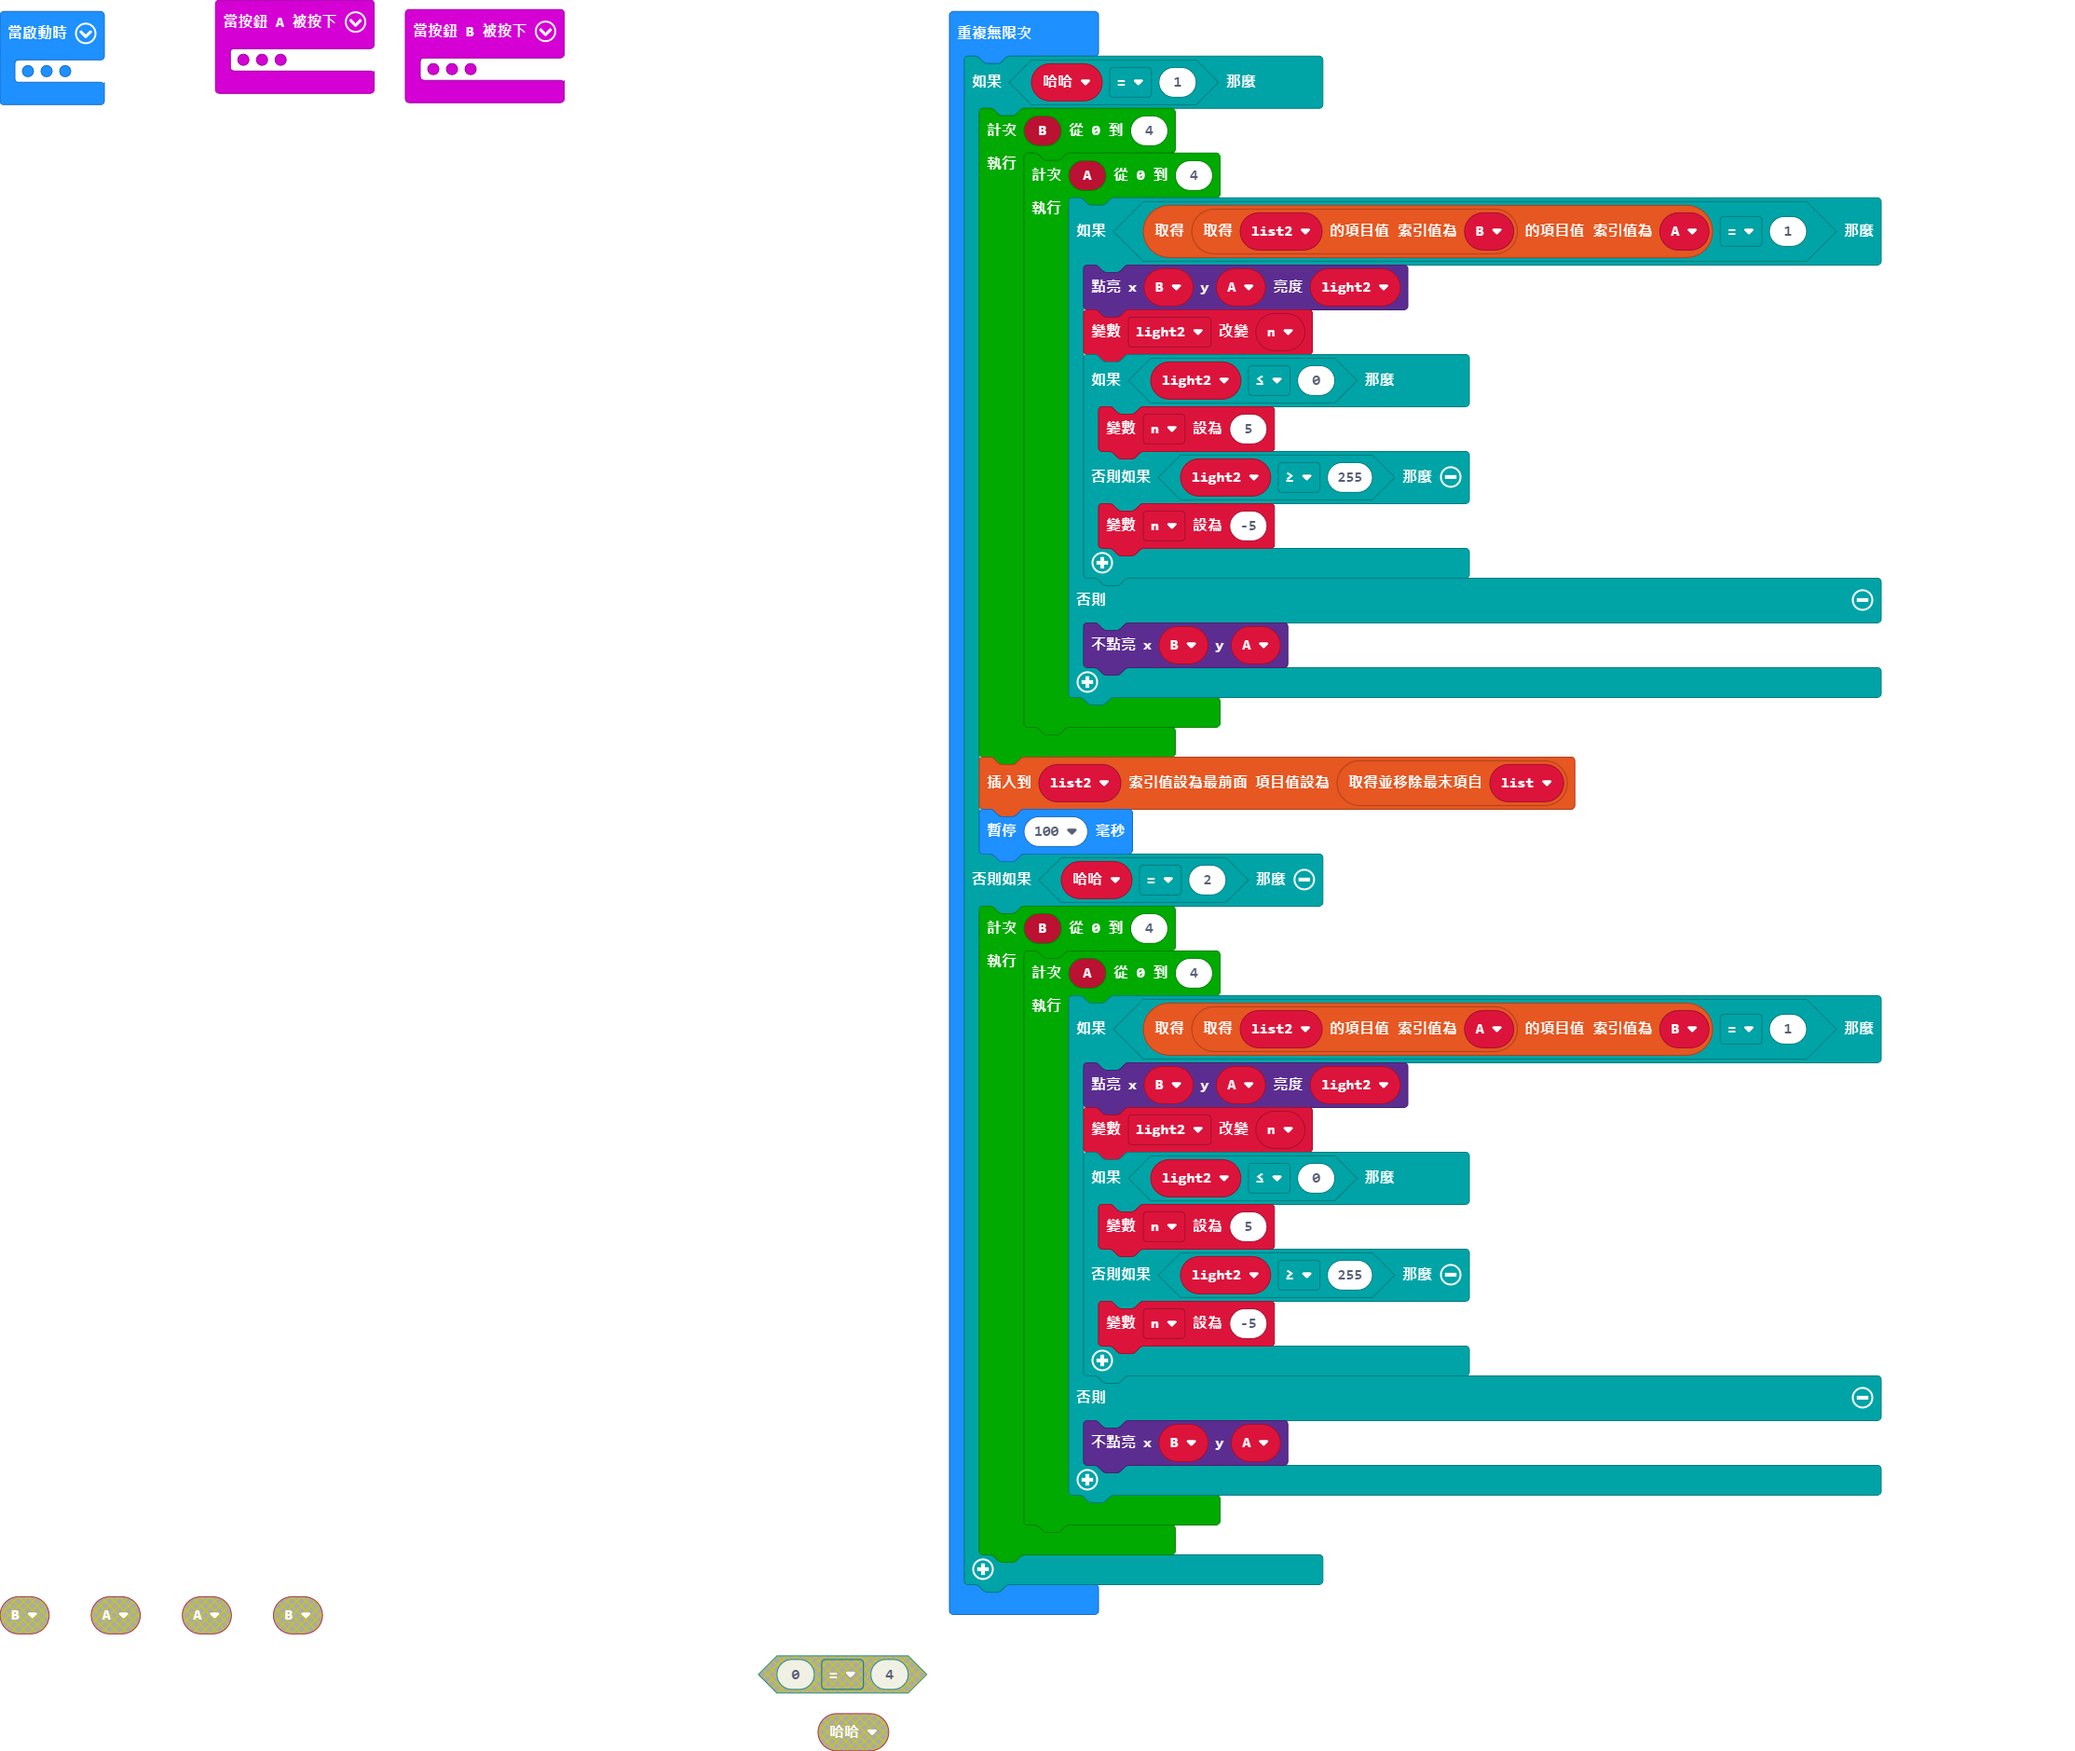
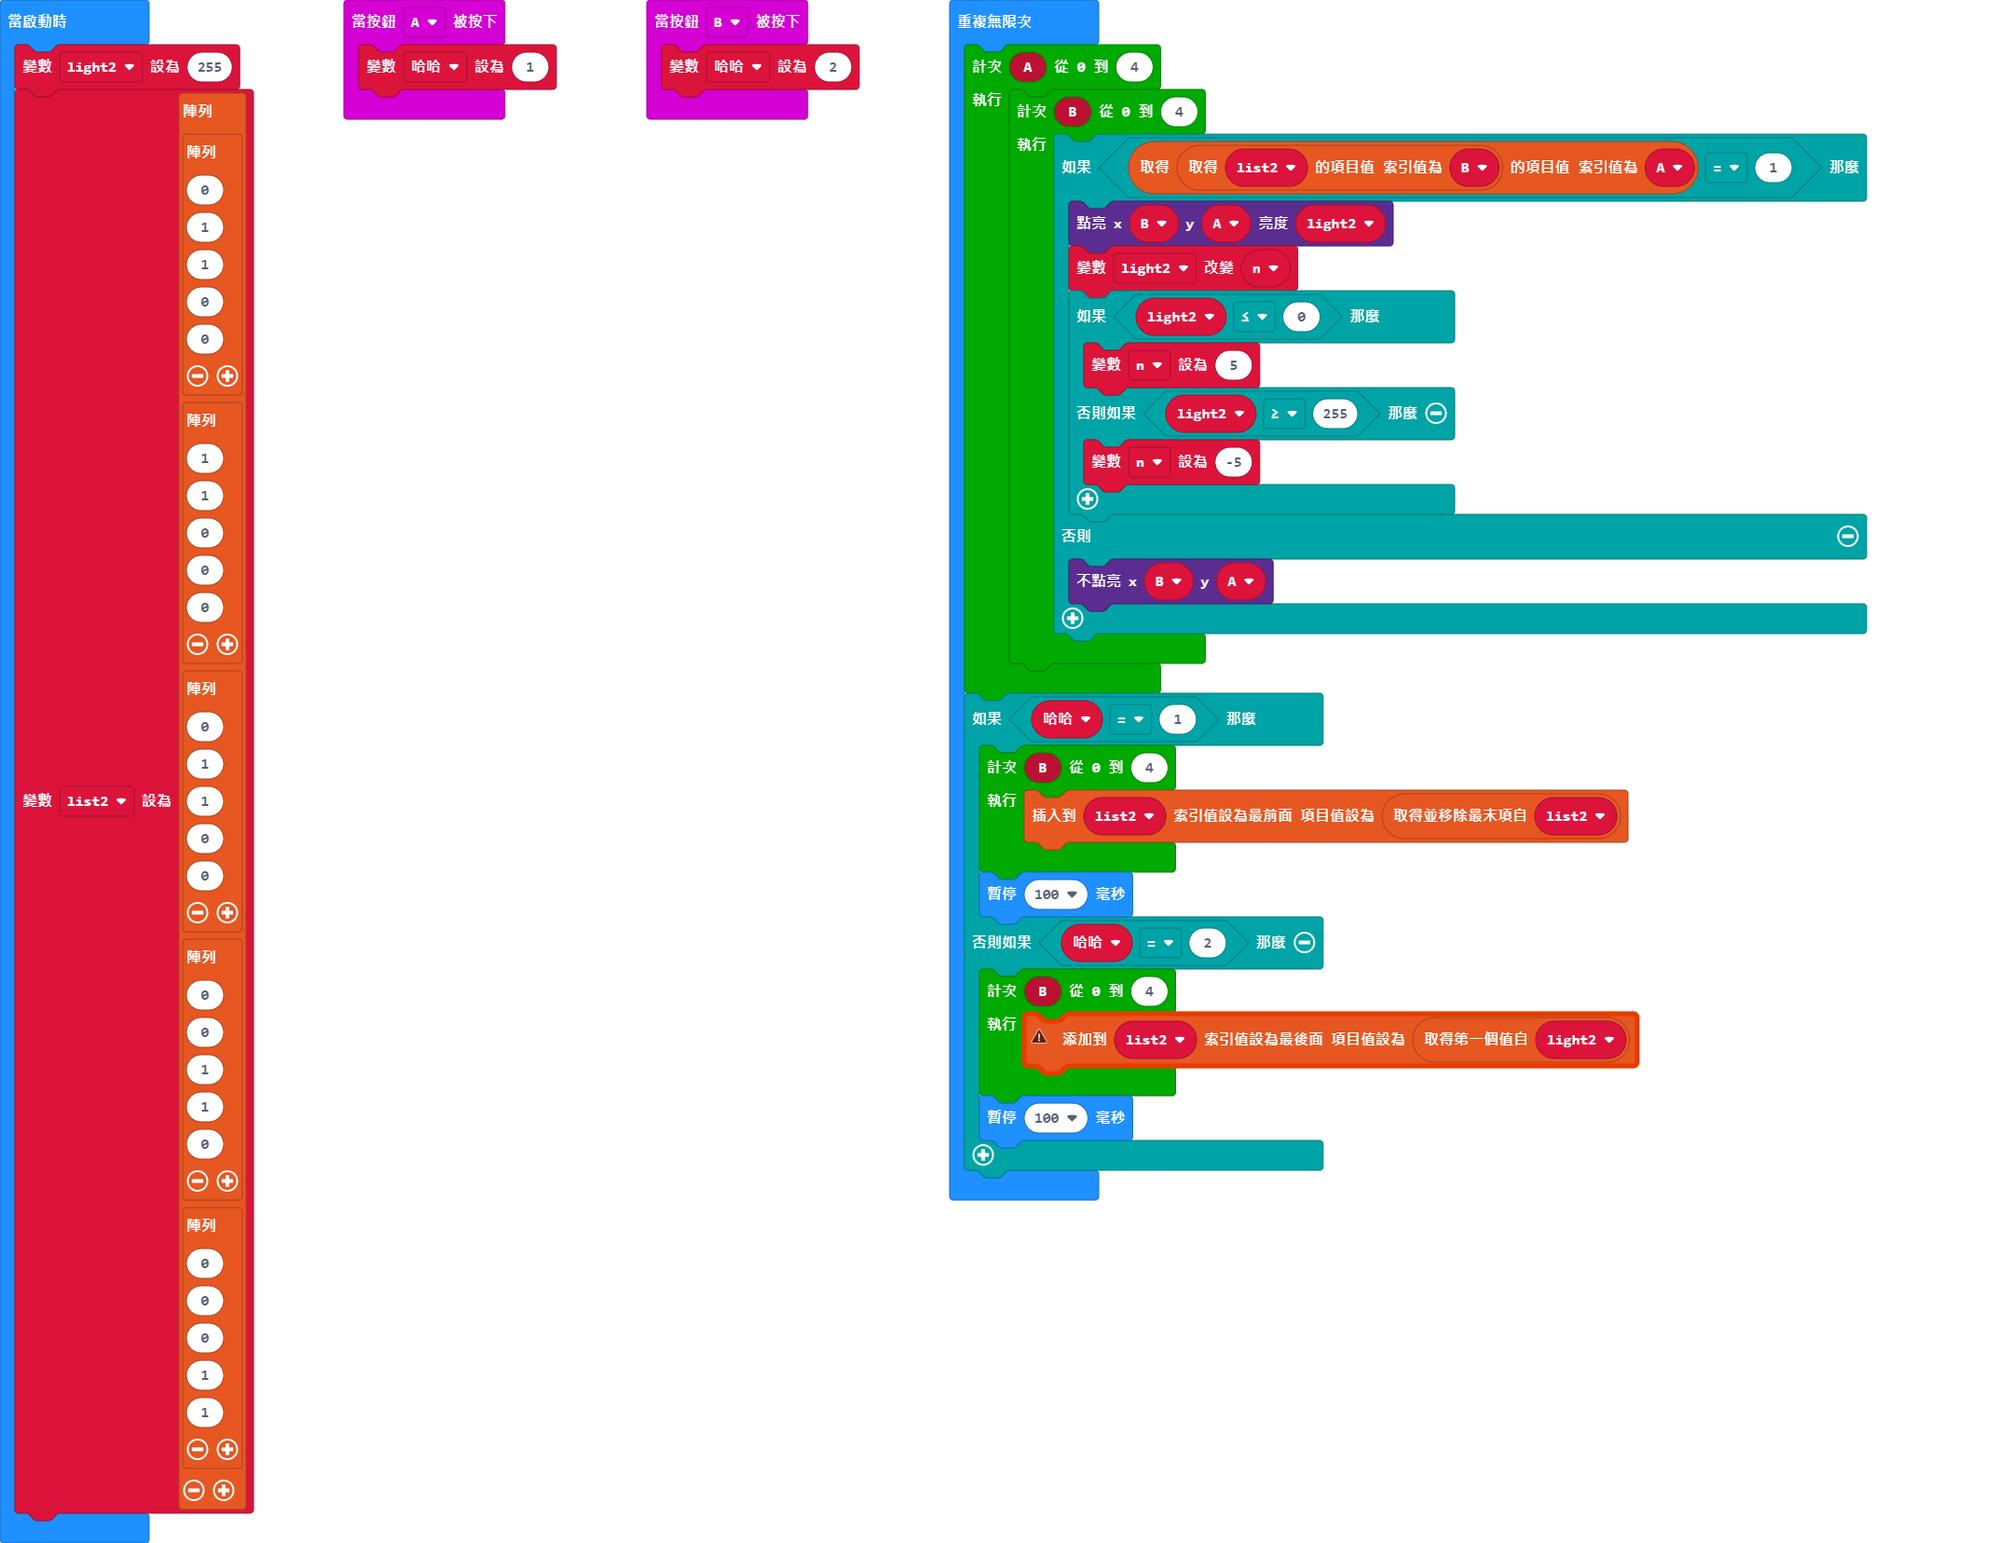
更新 main.blocks, main.ts

diff --git a/main.ts b/main.ts
@@ -45,40 +45,30 @@ let list2 = [
 ]
 ]
 basic.forever(function () {
-    if (哈哈 == 1) {
-        let list: number[][] = []
+    for (let A = 0; A <= 4; A++) {
         for (let B = 0; B <= 4; B++) {
-            for (let A = 0; A <= 4; A++) {
-                if (list2[B][A] == 1) {
-                    led.plotBrightness(B, A, light2)
-                    light2 += n
-                    if (light2 <= 0) {
-                        n = 5
-                    } else if (light2 >= 255) {
-                        n = -5
-                    }
-                } else {
-                    led.unplot(B, A)
+            if (list2[B][A] == 1) {
+                led.plotBrightness(B, A, light2)
+                light2 += n
+                if (light2 <= 0) {
+                    n = 5
+                } else if (light2 >= 255) {
+                    n = -5
                 }
+            } else {
+                led.unplot(B, A)
             }
         }
-        list2.unshift(list.pop())
+    }
+    if (哈哈 == 1) {
+        for (let B = 0; B <= 4; B++) {
+            list2.unshift(list2.pop())
+        }
         basic.pause(100)
     } else if (哈哈 == 2) {
         for (let B = 0; B <= 4; B++) {
-            for (let A = 0; A <= 4; A++) {
-                if (list2[A][B] == 1) {
-                    led.plotBrightness(B, A, light2)
-                    light2 += n
-                    if (light2 <= 0) {
-                        n = 5
-                    } else if (light2 >= 255) {
-                        n = -5
-                    }
-                } else {
-                    led.unplot(B, A)
-                }
-            }
+            list2.push(light2.shift())
         }
+        basic.pause(100)
     }
 })
